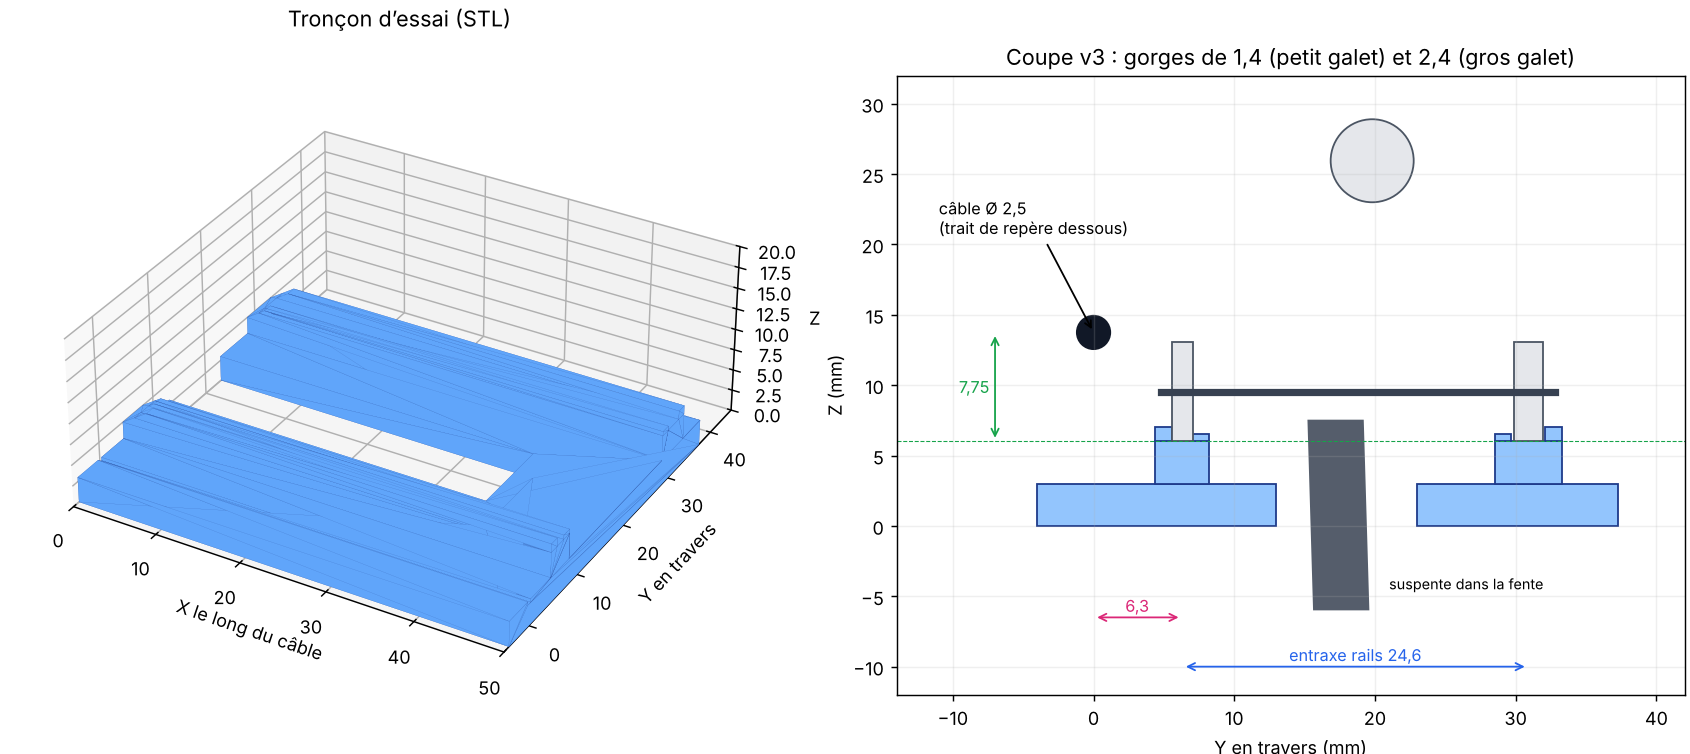
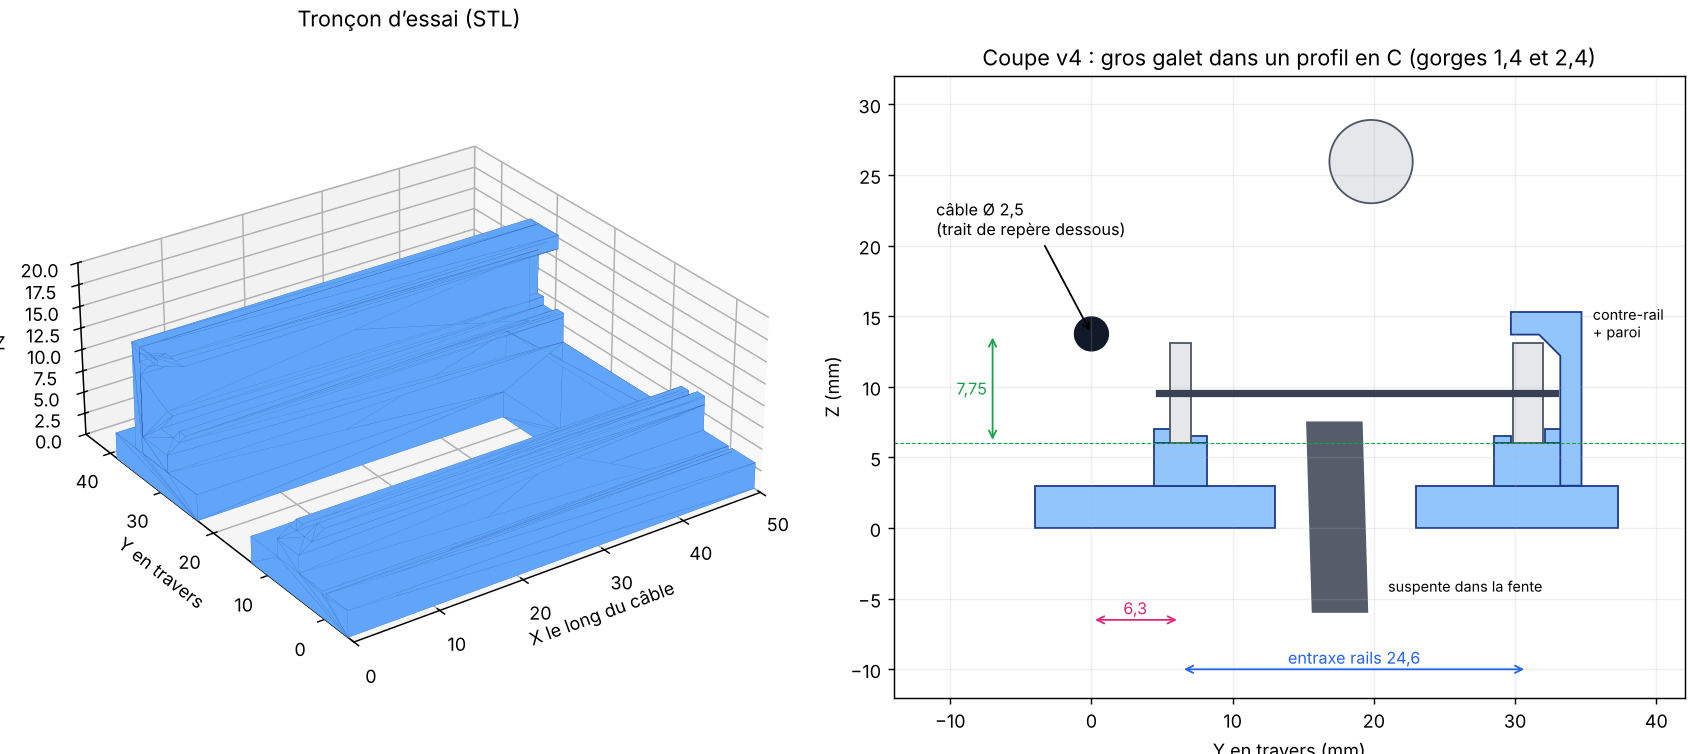
Rail d'essai v4 : profil en C pour le gros galet
Demande de l'utilisateur : comme dans les vraies gares débrayables, le
gros galet roule dans un profil en C. Contre-rail au-dessus du galet
(dessous à 0,6 mm du haut d'un galet de 7,1 mm), paroi extérieure à
0,4 mm du bout d'axe, renfort en biais pour imprimer sans support,
entrée du contre-rail évasée. Gorges de la v3 inchangées.

Claude-Session: https://claude.ai/code/session_01Y9DV7HkqTCheu9GDiPVfSd

diff --git a/essai_rail_2026-10-22/generer_rail_essai.py b/essai_rail_2026-10-22/generer_rail_essai.py
@@ -6,6 +6,7 @@ Repere du STL : X le long du cable, Y en travers (cable a Y = 0), Z vers le haut
 v1 : ecart des galets et position du cable valides par l'essai (22/10).
 v2 : les traits des rails deviennent des gorges ou roulent les galets.
 v3 : gorges trop larges a l'essai v2 : gros galet -1/3, petit galet -1/2.
+v4 : profil en C pour le gros galet : contre-rail au-dessus et paroi exterieure.
 """
 from pathlib import Path
 import json
@@ -13,7 +14,7 @@ import manifold3d as mf
 import trimesh
 
 BASE = Path(__file__).resolve().parent
-VERSION = 'v3'
+VERSION = 'v4'
 
 COTES = dict(
     longueur=50.0,              # le long du cable
@@ -27,6 +28,14 @@ COTES = dict(
     galet_machoire_y=6.3,       # centre du galet cote machoire depuis l'axe du cable
     entraxe_galets=24.6,
     cable_au_dessus_rail=7.75,  # fond de gorge -> cable : 4,2 + 3,55 (rayon galet 7,1)
+    gros_galet_diametre=7.1,
+    bout_axe_oppose_y=32.8,     # bout d'axe metallique cote gros galet (28 mm bout a bout)
+    contre_rail=dict(jeu_dessus=0.6,       # haut du gros galet -> dessous du contre-rail
+                     epaisseur=1.6,
+                     jeu_bout_axe=0.4,     # bout d'axe -> face interieure de la paroi
+                     epaisseur_paroi=1.5,
+                     chanfrein=1.5,        # renfort sous le contre-rail, imprimable sans support
+                     evasement=dict(hauteur=1.0, longueur=3.0)),  # entree du contre-rail
     fente_suspente_y=18.0,      # axe de la suspente a hauteur de plaque
     fente_suspente_largeur=10.0,
     fente_suspente_longueur=38.0,
@@ -50,7 +59,9 @@ def rails(c):
 def rail_essai(c):
     L, e, h, g = c['longueur'], c['epaisseur_plaque'], c['hauteur_rail'], c['gorge']
     (y1, _, _), (y2, lg2, _) = rails(c)
-    ymax = y2 + lg2 / 2 + g['bord'] + c['plaque_y_marge']
+    k = c['contre_rail']
+    y_paroi = c['bout_axe_oppose_y'] + k['jeu_bout_axe']          # face interieure de la paroi
+    ymax = max(y2 + lg2 / 2 + g['bord'], y_paroi + k['epaisseur_paroi']) + c['plaque_y_marge']
     piece = boite(0, c['plaque_y_min'], 0, L, ymax, e)
     top = e + h
     for yr, lg, cote_ext in rails(c):
@@ -65,6 +76,20 @@ def rail_essai(c):
         tri = mf.CrossSection([[(-0.01, top - r['profondeur']), (r['longueur'], z_haut + 0.01), (-0.01, z_haut + 0.01)]])
         coin = mf.Manifold.extrude(tri, w + 2).rotate([90, 0, 0]).translate([0, yr + w / 2 + 1, 0])
         piece = piece + rail - coin
+    # profil en C du gros galet : paroi exterieure + contre-rail au-dessus du galet
+    z_bas = top + c['gros_galet_diametre'] + k['jeu_dessus']
+    z_haut = z_bas + k['epaisseur']
+    y_int = y2 - lg2 / 2                                             # aplomb du bord interieur de la gorge
+    paroi = boite(0, y_paroi, e - 0.01, L, y_paroi + k['epaisseur_paroi'], z_haut)
+    contre = boite(0, y_int, z_bas, L, y_paroi + 0.01, z_haut)
+    ch = k['chanfrein']
+    renfort = mf.Manifold.extrude(mf.CrossSection([[(y_paroi + 0.01, z_bas - ch), (y_paroi + 0.01, z_bas + 0.01),
+                                                    (y_paroi - ch, z_bas + 0.01)]]), L).rotate([90, 0, 90])
+    ev = k['evasement']
+    entree = mf.Manifold.extrude(mf.CrossSection([[(-0.01, z_bas - 0.01), (ev['longueur'], z_bas - 0.01),
+                                                   (-0.01, z_bas + ev['hauteur'])]]), y_paroi - y_int + 1)
+    entree = entree.rotate([90, 0, 0]).translate([0, y_paroi, 0])
+    piece = piece + paroi + contre + renfort - entree
     # fente de la suspente, ouverte cote X = 0
     ys, ws = c['fente_suspente_y'], c['fente_suspente_largeur']
     piece = piece - boite(-1, ys - ws / 2, -1, c['fente_suspente_longueur'], ys + ws / 2, e + 1)
@@ -74,7 +99,8 @@ def rail_essai(c):
     if piece.status() != mf.Error.NoError:
         raise RuntimeError(piece.status())
     return piece, dict(rail_machoire_y=y1, rail_oppose_y=y2, dessus_rail_z=e + h,
-                       cable_z=e + h + c['cable_au_dessus_rail'], encombrement=[L, ymax - c['plaque_y_min'], e + h])
+                       cable_z=e + h + c['cable_au_dessus_rail'], contre_rail_dessous_z=z_bas,
+                       paroi_y=y_paroi, encombrement=[L, ymax - c['plaque_y_min'], z_haut])
 
 
 def apercu(m, info, c, chemin):
@@ -87,7 +113,7 @@ def apercu(m, info, c, chemin):
     ax = fig.add_subplot(1, 2, 1, projection='3d')
     ax.add_collection3d(Poly3DCollection(m.triangles, facecolors='#60a5fa', edgecolors='#1e3a8a', linewidths=0.05))
     ax.set(xlim=(0, 50), ylim=(-5, 45), zlim=(0, 20), xlabel='X le long du câble', ylabel='Y en travers', zlabel='Z')
-    ax.set_box_aspect([50, 50, 20]); ax.view_init(elev=32, azim=-60)
+    ax.set_box_aspect([50, 50, 20]); ax.view_init(elev=28, azim=-125)
     ax.set_title('Tronçon d’essai (STL)')
     bx = fig.add_subplot(1, 2, 2)
     e, h, g = c['epaisseur_plaque'], c['hauteur_rail'], c['gorge']
@@ -101,6 +127,13 @@ def apercu(m, info, c, chemin):
         for cote, haut in ((cote_ext, g['bord_exterieur']), (-cote_ext, g['bord_interieur'])):
             y0 = min(yr + cote * lg / 2, yr + cote * w / 2)
             bx.add_patch(Rectangle((y0, e + h), g['bord'], haut, fc='#93c5fd', ec='#1e3a8a'))
+    k = c['contre_rail']
+    zb = info['contre_rail_dessous_z']; yp = info['paroi_y']
+    y_int = info['rail_oppose_y'] - g['largeur_oppose'] / 2
+    bx.add_patch(Polygon([(yp, e), (yp + k['epaisseur_paroi'], e), (yp + k['epaisseur_paroi'], zb + k['epaisseur']),
+                          (y_int, zb + k['epaisseur']), (y_int, zb), (yp - k['chanfrein'], zb), (yp, zb - k['chanfrein'])],
+                         fc='#93c5fd', ec='#1e3a8a'))
+    bx.text(yp + k['epaisseur_paroi'] + 0.8, zb + 0.8, 'contre-rail\n+ paroi', fontsize=8, va='center')
     zc = info['cable_z']; za = zc - 4.2
     for yr, lw in ((info['rail_machoire_y'], 1.5), (info['rail_oppose_y'], 2.1)):
         bx.add_patch(Rectangle((yr - lw / 2, za - 3.55), lw, 7.1, fc='#e5e7eb', ec='#4b5563'))
@@ -118,8 +151,8 @@ def apercu(m, info, c, chemin):
     bx.text(3.1, -6.1, f"{c['galet_machoire_y']:.1f}".replace('.', ','), ha='center', color='#db2777', fontsize=9)
     bx.text(21, -4.5, 'suspente dans la fente', ha='left', fontsize=8)
     bx.set(xlim=(-14, 42), ylim=(-12, 32), aspect='equal', xlabel='Y en travers (mm)', ylabel='Z (mm)')
-    bx.set_title(f"Coupe {VERSION} : gorges de {c['gorge']['largeur_machoire']:.1f} (petit galet) et "
-                 f"{c['gorge']['largeur_oppose']:.1f} (gros galet)".replace('.', ','))
+    bx.set_title(f"Coupe {VERSION} : gros galet dans un profil en C (gorges {c['gorge']['largeur_machoire']:.1f} et "
+                 f"{c['gorge']['largeur_oppose']:.1f})".replace('.', ','))
     bx.grid(alpha=0.2)
     fig.savefig(chemin, dpi=130)
     plt.close(fig)
@@ -137,7 +170,7 @@ def main():
                                 for k, v in info.items()},
         volume_mm3=round(float(mesh.volume), 1),
         dimensions_mm=[round(float(v), 2) for v in mesh.extents],
-        statut='Piece d essai ; ecart valide en v1, gorges reduites apres essai v2'),
+        statut='Piece d essai ; ecart valide en v1, gorges v3, profil en C du gros galet a essayer'),
         ensure_ascii=False, indent=2) + '\n', encoding='utf-8')
     print(f'Rail_essai_JC_{VERSION}.stl :', [round(float(v), 2) for v in mesh.extents], 'mm,', round(float(mesh.volume)), 'mm3')
 
